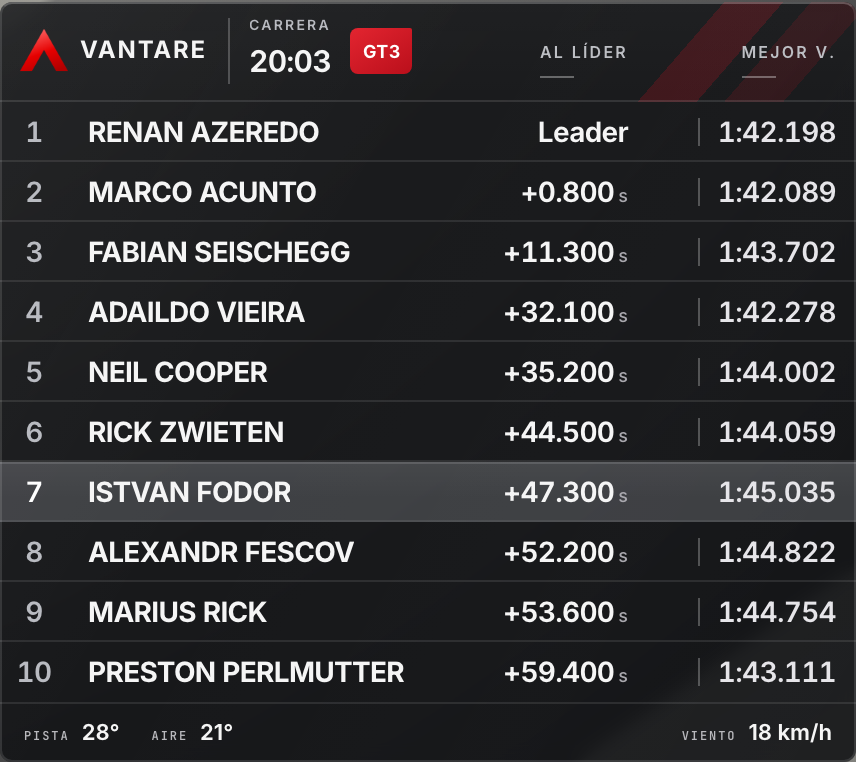
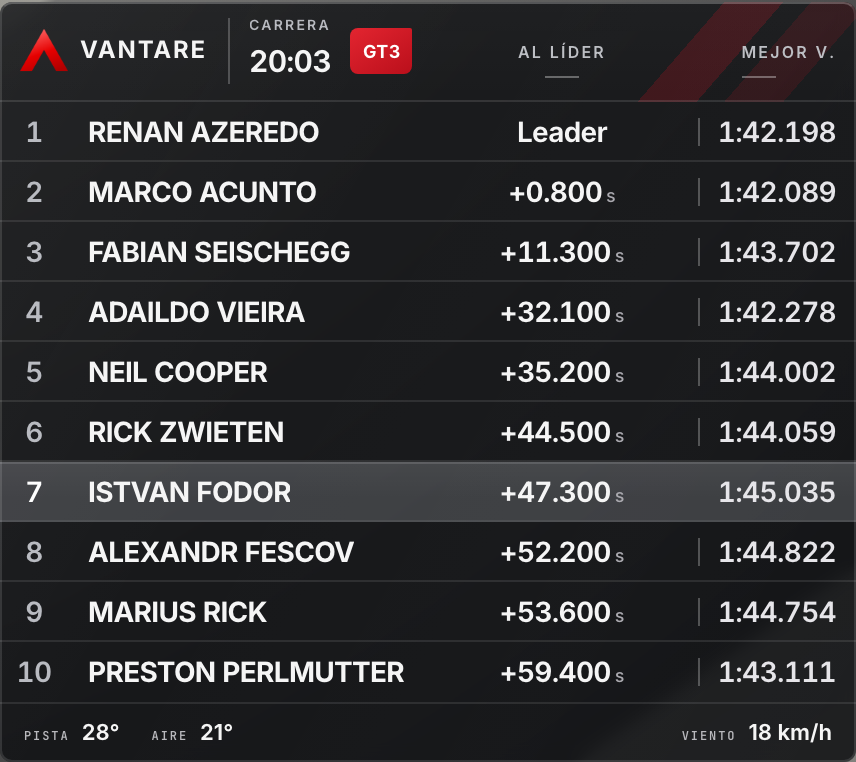
feat(overlays): center the leader-gap column in Efficiency (ISA-1120)
Per Isaac's review: the AL LÍDER values and label now sit centered instead
of right-aligned — the gap column aligns like a timing datum, not a flush
edge. Applies to both Signature and Broadcast; the label underline centers
under the label.

Generated with [Devin](https://devin.ai)

diff --git a/vantare-v2/frontend/src/overlay/design-systems/vantare-functional/tokens.css b/vantare-v2/frontend/src/overlay/design-systems/vantare-functional/tokens.css
@@ -25,11 +25,13 @@
 .vf-standings .vf-table { width: 100%; table-layout: fixed; border-collapse: separate; border-spacing: 0; margin: 0; }
 .vf-standings .vf-table :is(th, td) { position: relative; border: 0; padding: 0 10px; white-space: nowrap; overflow: hidden; text-overflow: ellipsis; }
 .vf-standings .vf-table thead th { height: 50px; color: #bdbfc4; font-size: 8px; font-weight: 600; letter-spacing: .14em; text-align: right; vertical-align: middle; border-bottom: 1px solid var(--vf-line); background: linear-gradient(180deg, rgb(255 255 255 / 2%), transparent); }
+.vf-standings .vf-table th[data-metric="gap"] { text-align: center; }
 .vf-standings .vf-table th.vf-identity-head { padding: 0; }
 .vf-standings .vf-table th.vf-source-notice { color: #e2c568; text-align: left; letter-spacing: 0; }
 .vf-column-label { display: inline-block; position: relative; }
 .vf-standings[data-template="signature"] .vf-column-label { padding-bottom: 7px; transform: translateY(4px); }
 .vf-standings[data-template="signature"] .vf-column-label::after { content: ""; position: absolute; left: 0; bottom: 0; width: 17px; height: 1px; background: rgb(245 245 245 / 35%); }
+.vf-standings[data-template="signature"] .vf-table th[data-metric="gap"] .vf-column-label::after { left: 50%; transform: translateX(-50%); }
 .vf-session { display: flex; align-items: center; gap: 10px; height: 49px; padding: 0 10px; min-width: 0; }
 .vf-brand { display: flex; align-items: center; gap: 6px; flex-shrink: 0; color: #f5f5f5; font-size: 12px; font-weight: 700; letter-spacing: .075em; line-height: 1; }
 .vf-brand img { width: 24px; height: 24px; object-fit: contain; }

diff --git a/vantare-v2/frontend/src/overlay/design-systems/vantare-functional/StandingsFunctional.tsx b/vantare-v2/frontend/src/overlay/design-systems/vantare-functional/StandingsFunctional.tsx
@@ -45,7 +45,7 @@ export function StandingsFunctional({ model, settings }: WidgetRendererProps<Sta
               {columns.map((column) => {
                 const value = column.metricId === "driverName" ? row.configuredDriverName ?? row.driverName : resolveStandingsCellValue(row, column.metricId);
                 const seconds = (column.metricId === "gap" || column.metricId === "interval") ? /^([+-]?\d+(?:\.\d+)?)(s)$/.exec(value) : null;
-                return <td key={column.id} data-metric={column.metricId} data-identity={IDENTITY.has(column.metricId) || undefined} aria-label={`${labelFor(column.metricId)}: ${value}`} style={{ textAlign: column.style?.align ?? (column.metricId === "driverName" ? "left" : IDENTITY.has(column.metricId) ? "center" : "right") }}>
+                return <td key={column.id} data-metric={column.metricId} data-identity={IDENTITY.has(column.metricId) || undefined} aria-label={`${labelFor(column.metricId)}: ${value}`} style={{ textAlign: column.metricId === "gap" ? "center" : column.style?.align ?? (column.metricId === "driverName" ? "left" : IDENTITY.has(column.metricId) ? "center" : "right") }}>
                   {column.metricId === "driverName" ? <span className="vf-driver"><span className="vf-driver-name" title={value}>{value}</span></span> :
                     column.metricId === "pit" ? <span title={value} className={row.pitText ? "vf-pit" : undefined}>{value}</span> : <span title={value} className={`vf-cell-value${seconds ? " vf-gap-number" : ""}`}>{seconds ? <>{seconds[1]}<small className="vf-time-unit">{seconds[2]}</small></> : value}</span>}
                 </td>;
